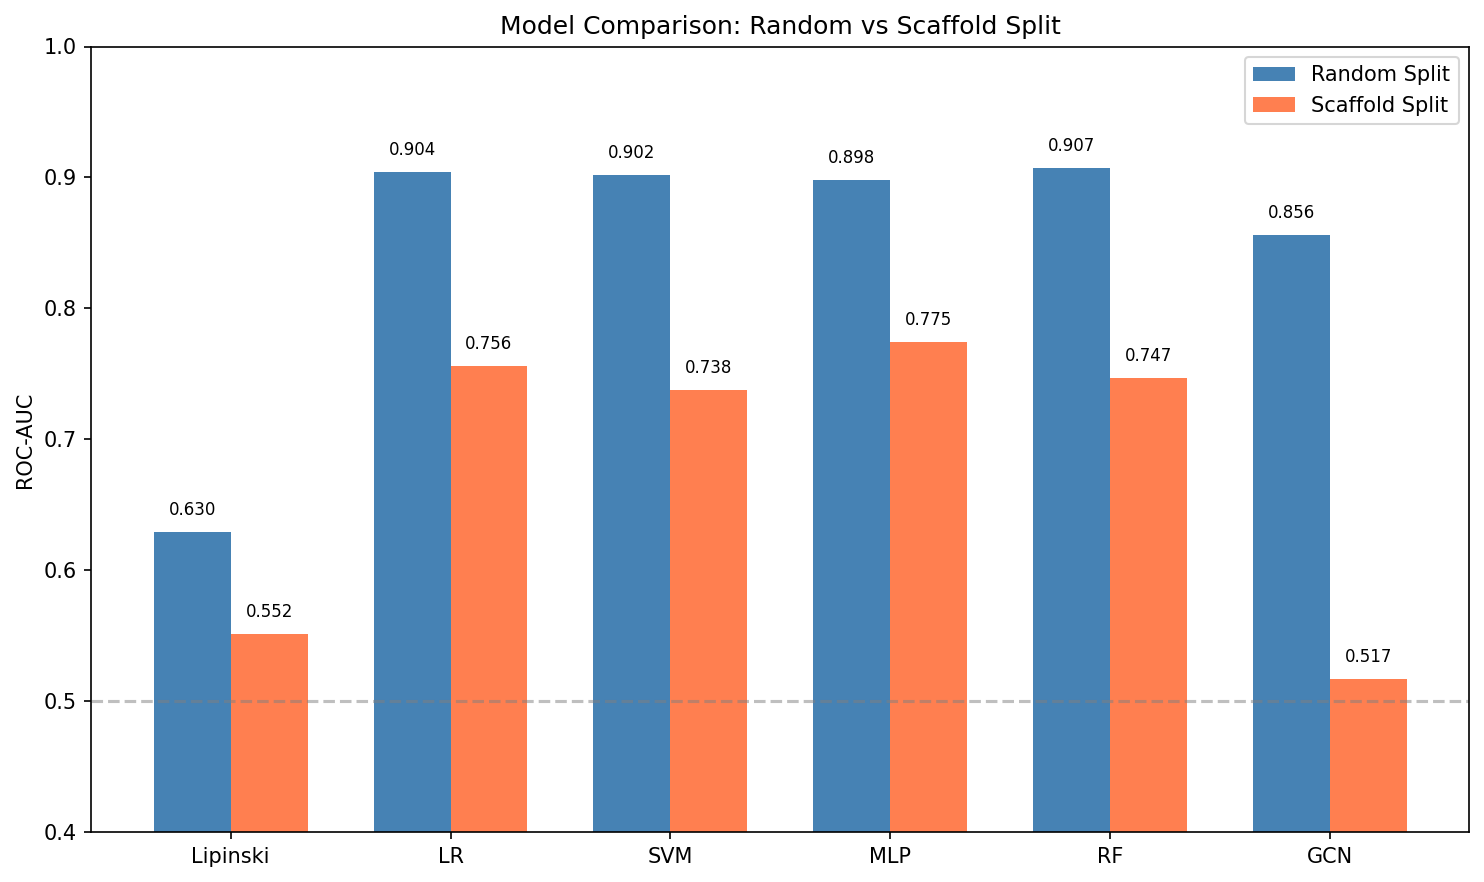
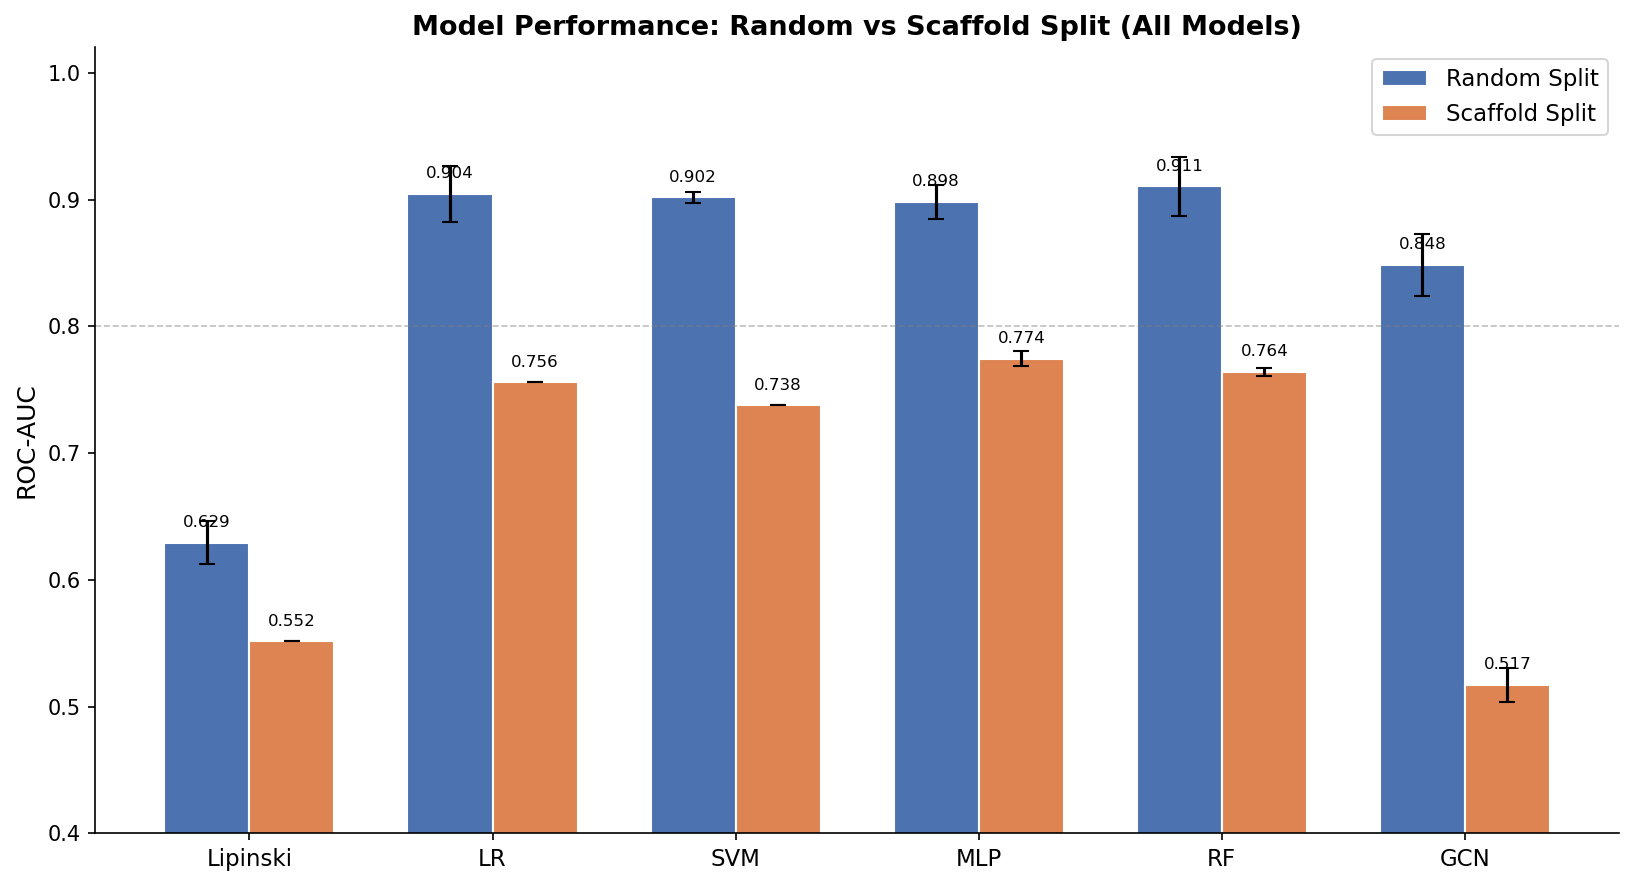
[results] Regenerate AUC bar chart with all 6 models and updated RF numbers

diff --git a/results/plot_auc_barchart.py b/results/plot_auc_barchart.py
@@ -1,22 +1,22 @@
 """
-Grouped bar chart: AUC by model and split type.
+Grouped bar chart: AUC by model and split type (all 6 models).
 """
 
-import pandas as pd
 import matplotlib.pyplot as plt
 import numpy as np
 
-# Data from fingerprint_results.csv
-models = ['LR', 'SVM', 'MLP']
-random_auc =   [0.9032, 0.9002, 0.8828]
-random_std =   [0.0245, 0.0031, 0.0063]
-scaffold_auc = [0.7617, 0.7464, 0.7659]
-scaffold_std = [0.0000, 0.0000, 0.0092]
+models = ['Lipinski', 'LR', 'SVM', 'MLP', 'RF', 'GCN']
+
+random_auc = [0.6295, 0.9043, 0.9018, 0.8983, 0.9106, 0.8483]
+random_std = [0.0166, 0.0221, 0.0045, 0.0134, 0.0233, 0.0245]
+
+scaffold_auc = [0.5516, 0.7558, 0.7378, 0.7745, 0.7640, 0.5172]
+scaffold_std = [0.0000, 0.0000, 0.0001, 0.0057, 0.0032, 0.0132]
 
 x = np.arange(len(models))
-width = 0.30
+width = 0.35
 
-fig, ax = plt.subplots(figsize=(8, 5))
+fig, ax = plt.subplots(figsize=(11, 6))
 
 bars1 = ax.bar(x - width/2, random_auc, width, yerr=random_std,
                label='Random Split', color='#4C72B0', capsize=4, edgecolor='white')
@@ -24,24 +24,22 @@ bars2 = ax.bar(x + width/2, scaffold_auc, width, yerr=scaffold_std,
                label='Scaffold Split', color='#DD8452', capsize=4, edgecolor='white')
 
 ax.set_ylabel('ROC-AUC', fontsize=12)
-ax.set_title('Fingerprint Model Performance: Random vs Scaffold Split', fontsize=13, fontweight='bold')
+ax.set_title('Model Performance: Random vs Scaffold Split (All Models)', fontsize=13, fontweight='bold')
 ax.set_xticks(x)
 ax.set_xticklabels(models, fontsize=11)
-ax.set_ylim(0.60, 1.00)
+ax.set_ylim(0.40, 1.02)
 ax.legend(fontsize=11)
 ax.spines['top'].set_visible(False)
 ax.spines['right'].set_visible(False)
-ax.axhline(y=0.80, color='gray', linestyle='--', linewidth=0.8, alpha=0.5)
+ax.axhline(y=0.80, color='gray', linestyle='--', linewidth=0.8, alpha=0.5, label='AUC=0.80')
 
-# Add value labels on bars
 for bar in bars1:
     ax.text(bar.get_x() + bar.get_width()/2., bar.get_height() + 0.01,
-            f'{bar.get_height():.3f}', ha='center', va='bottom', fontsize=9)
+            f'{bar.get_height():.3f}', ha='center', va='bottom', fontsize=8)
 for bar in bars2:
     ax.text(bar.get_x() + bar.get_width()/2., bar.get_height() + 0.01,
-            f'{bar.get_height():.3f}', ha='center', va='bottom', fontsize=9)
+            f'{bar.get_height():.3f}', ha='center', va='bottom', fontsize=8)
 
 plt.tight_layout()
-plt.savefig('results/auc_barchart.png', dpi=150, bbox_inches='tight')
-print("Saved to results/auc_barchart.png")
-plt.show()
+plt.savefig('results/auc_barchart_final.png', dpi=150, bbox_inches='tight')
+print("Saved to results/auc_barchart_final.png")
